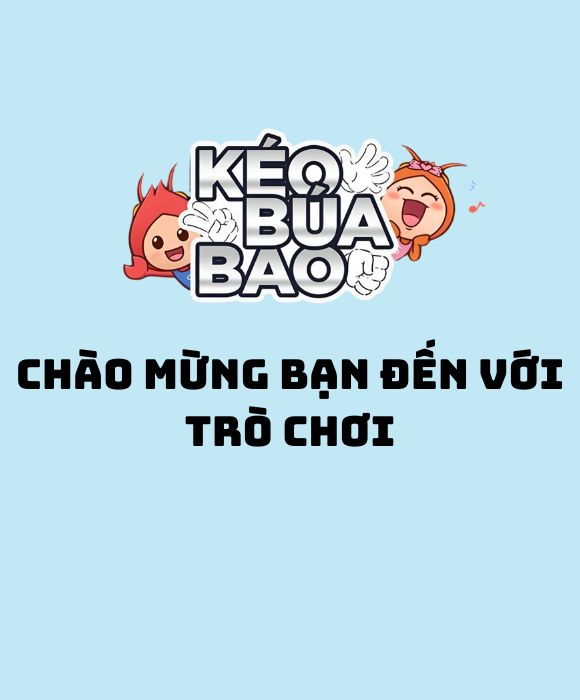
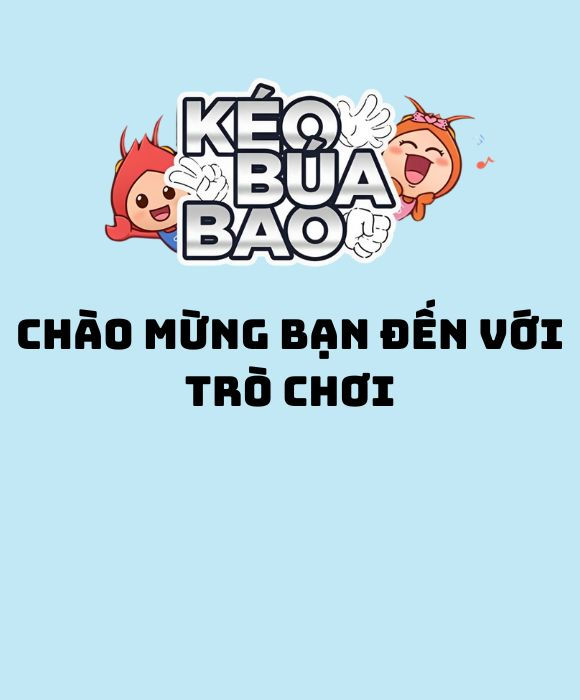
điều chỉnh giao diện lần 1

Changed region(s): [[0.031, 0.09, 0.9621, 0.66]]

diff --git a/server/gui.py b/server/gui.py
@@ -26,7 +26,7 @@ paper_img = pygame.image.load('asset/paper.png')
 scissor_img = pygame.image.load('asset/scissor.png')
 
 # Tạo Rect cho từng hình để kiểm tra va chạm
-play_rect = play_img.get_rect(center = (290, 550))
+play_rect = play_img.get_rect(center = (290, 500))
 # Kích thước của nút start nhỏ hơn
 start_width = 180
 start_height =60
